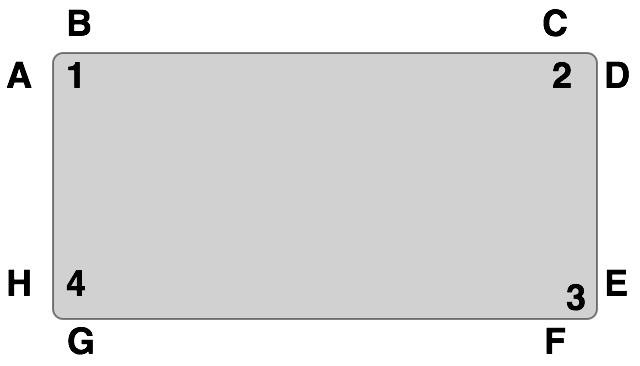
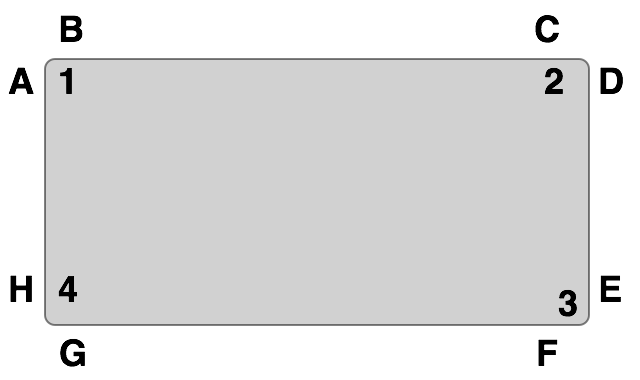
updated README.md

Changed region(s): [[0.0, 0.0, 1.0, 0.9918]]

diff --git a/README.md b/README.md
@@ -3,17 +3,40 @@ Drawing Rounded Corners
 
 Examples of drawing various shapes with code
 
-Drawing shapes with code is useful when the shapes require different colors, rounded corners or placement of details in the drawing. These examples show how various shapes can be drawn in code including a quote bubble which works well for callout views with a map.
+Drawing shapes with code is useful when the shapes require different colors, rounded 
+corners or placement of details in the drawing. These examples show how various shapes 
+can be drawn in code including a quote bubble which works well for callout views with a 
+map.
 
-Another benefit of drawing shapes is image management for various PNG files is not necessary and images are automatically scaled for the device. The latest iPhone screen will automatically render with the right scale without any changes to the code.
+Another benefit of drawing shapes is image management for various PNG files is not 
+necessary and images are automatically scaled for the device. The latest iPhone screen 
+will automatically render with the right scale without any changes to the code.
 
 Below are examples of shapes drawn with the included sample code.
 
 <img src="https://raw.githubusercontent.com/brennanMKE/DrawingRoundedCorners/master/DrawingRoundedCorners.png" width="600px" />
 
+For the quote bubble, the drawing is done around 4 points with rounded corners. In the 
+diagram below the letters represent where the rounded corners start and end. Drawing 
+rounded corners is done with `CGContextAddArcToPoint` which uses 2 points to draw the 
+rounded corner. The first value is where the corner would be if there were not rounded 
+corner and the next point is where the curve should end. The last parameter is the 
+border radius. By reviewing the code you will see the first point uses the numbered 
+corner points with the second point being the point marked with a letter on the other
+side of the rounded corner.
+
+If the position value is not zero a point will be drawn. This is done when drawing the 
+lines for each point between F and G. Once the line reaches F it will optionally draw
+lines to the right side of the base, down to the point and back up to the left side of
+the base before continuing to G. The method which draws this bubble view allows for the
+size, position, border radius and stroke width to be set. The stroke and background
+colors could be passed in as method arguments to provide further customization.
+
+<img src="https://raw.githubusercontent.com/brennanMKE/DrawingRoundedCorners/master/DrawingGrid.png" width="600px" />
+
 ## License
 
-Xcode Code Snippets are available under the MIT license. See the LICENSE file for more info.
+Drawing Rounded Corners is available under the MIT license. See the LICENSE file for more info.
 
 ## Contact
 
